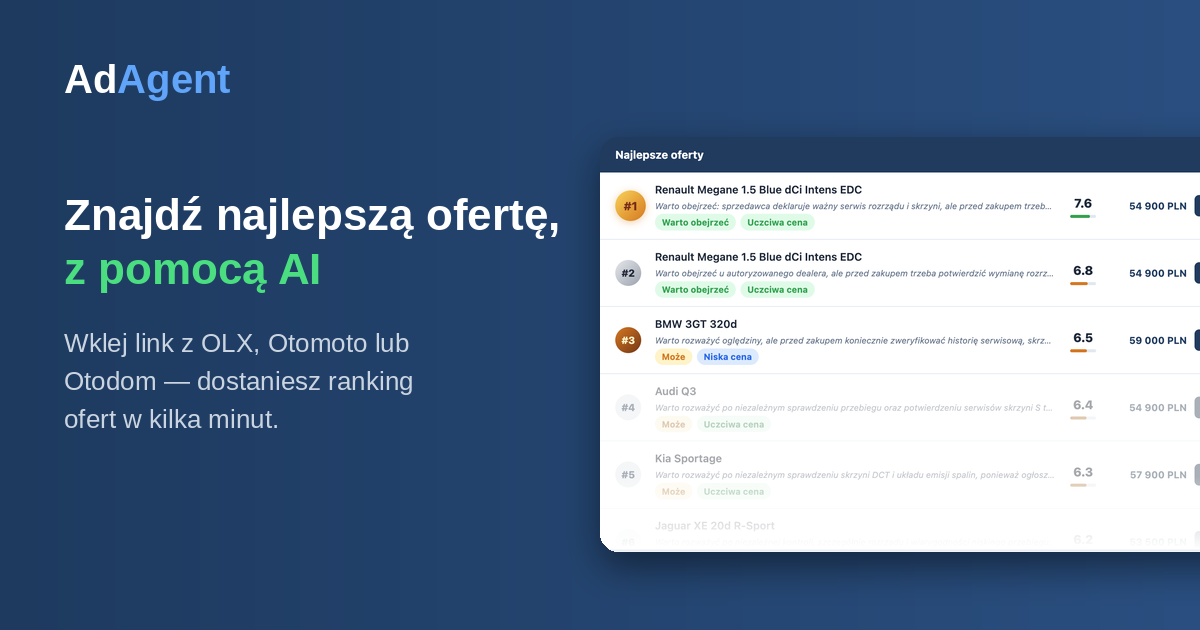
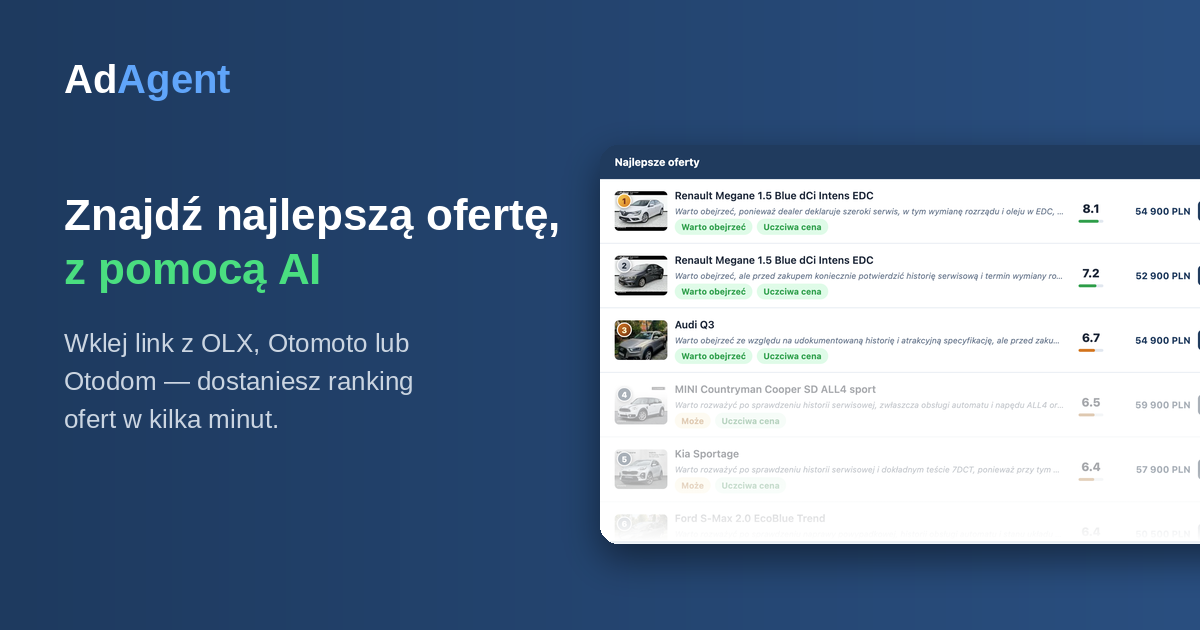
[web] Fix for report translation  - And new leaderboard screenshot examples

diff --git a/templates/index.html b/templates/index.html
@@ -158,7 +158,7 @@
           <source media="(max-width: 560px)" srcset="/static/sample-leaderboard-m.webp" type="image/webp">
           <source media="(max-width: 560px)" srcset="/static/sample-leaderboard-m.png">
           <source srcset="/static/sample-leaderboard.webp" type="image/webp">
-          <img src="/static/sample-leaderboard.png" width="1300" height="983" loading="lazy"
+          <img src="/static/sample-leaderboard.png" width="1300" height="947" loading="lazy"
                alt="{{ t('Example AdAgent report: a ranked leaderboard of car offers with scores and verdicts') }}">
         </picture>
       </div>

diff --git a/service/languages.py b/service/languages.py
@@ -3,6 +3,8 @@ Supported UI/report languages + the instruction injected into AI prompts
 to make the model answer in the user's chosen language.
 """
 
+import re
+
 # code -> (native display name, English name used inside the AI prompt)
 LANGUAGES: dict[str, tuple[str, str]] = {
     "en": ("English",      "English"),
@@ -63,16 +65,32 @@ def detect_language(accept_language_header: str | None) -> str:
     return DEFAULT_LANGUAGE
 
 
+_SAME_LANG_LINE_RE = re.compile(r"^[^\n]*same language as[^\n]*\n?", re.IGNORECASE | re.MULTILINE)
+
+
+def strip_language_conflicts(prompt: str, lang_code: str | None) -> str:
+    """
+    Remove the presets' own "Use the same language as the advertisement" lines
+    when an explicit report language is chosen. The override appended at the end
+    already says it wins, but removing the contradiction is more reliable.
+    No-op for None / unknown codes (legacy "ad's own language" behavior).
+    """
+    if not lang_code or lang_code not in LANGUAGES:
+        return prompt
+    return _SAME_LANG_LINE_RE.sub("", prompt).rstrip()
+
+
 def build_language_instruction(lang_code: str | None, structured: bool) -> str:
     """
     Appended to the end of an ad/summary prompt (preset or custom).
     Placed last on purpose — models weight the final instruction heavily,
     and this needs to override the presets' own "use the ad's language" line.
 
-    Returns "" for None / unknown / the default language (no override needed —
-    keeps the existing "same language as the ad" behavior).
+    Applies to EVERY supported language, English included: ads are mostly
+    Polish, so "no override" for English meant English reports came out Polish.
+    Returns "" only for None / unknown codes (legacy "same language as the ad").
     """
-    if not lang_code or lang_code not in LANGUAGES or lang_code == DEFAULT_LANGUAGE:
+    if not lang_code or lang_code not in LANGUAGES:
         return ""
 
     _, english_name = LANGUAGES[lang_code]
@@ -81,10 +99,16 @@ def build_language_instruction(lang_code: str | None, structured: bool) -> str:
         return (
             f"\n\n---\nIMPORTANT — response language override (this takes priority "
             f"over any earlier language instruction above):\n"
-            f"Write all free-text / prose values in {english_name}. Do NOT translate "
-            f"JSON keys. Do NOT translate any field whose allowed values are given "
-            f"above as a fixed set in quotes (e.g. \"worth_viewing\"|\"maybe\"|\"skip\", "
-            f"or \"low\"|\"fair\"|\"high\"|\"unknown\") — keep those exact English enum "
+            f"Write all free-text / prose values in {english_name}, even though the "
+            f"advertisement itself is usually in Polish. This includes items you take "
+            f"from the ad's text: translate every entry of mentioned_fixes, red_flags "
+            f"and positives, and text values such as color, heating, condition, "
+            f"district descriptions and monthly_fees wording, into {english_name}. "
+            f"Keep numbers, currency amounts, proper nouns (brand, model, street, "
+            f"city names) and URLs as they are. Do NOT translate JSON keys. Do NOT "
+            f"translate any field whose allowed values are given above as a fixed "
+            f"set in quotes (e.g. \"worth_viewing\"|\"maybe\"|\"skip\", or "
+            f"\"low\"|\"fair\"|\"high\"|\"unknown\") — keep those exact English enum "
             f"strings unchanged. Everything else (verdict_note, summary, deep_dive "
             f"text, red_flags, positives, market_summary, recommendation, "
             f"recommended_ads.label, etc.) must be written in {english_name}."
@@ -93,5 +117,26 @@ def build_language_instruction(lang_code: str | None, structured: bool) -> str:
     return (
         f"\n\n---\nIMPORTANT — response language override (this takes priority "
         f"over any earlier language instruction above): write your entire "
-        f"response in {english_name}."
+        f"response in {english_name}, even if the advertisement text is in another "
+        f"language (translate anything you quote or take from it)."
+    )
+
+
+def build_language_reminder(lang_code: str | None, structured: bool) -> str:
+    """
+    Short reminder appended to the END OF THE USER MESSAGE (after the ad text).
+    The system-prompt override alone loses to a long Polish ad body in the user
+    turn; the last thing the model reads should be the language requirement.
+    """
+    if not lang_code or lang_code not in LANGUAGES:
+        return ""
+    _, english_name = LANGUAGES[lang_code]
+    extra = (
+        " Keep JSON keys and fixed enum values unchanged; translate every other "
+        "text value, including list items copied from the ad."
+        if structured else ""
+    )
+    return (
+        f"\n\n---\nREMINDER: the text above may be in Polish. Write your entire "
+        f"answer in {english_name}.{extra}"
     )

diff --git a/service/ai_client.py b/service/ai_client.py
@@ -109,13 +109,13 @@ def _format_ad(data: dict) -> str:
     return "\n".join(lines)
 
 
-async def analyze_ad(ad_data: dict, system_prompt: str, owner_id: str) -> str:
+async def analyze_ad(ad_data: dict, system_prompt: str, owner_id: str, lang_reminder: str = "") -> str:
     """
     Run per-ad analysis. Returns raw AI response string.
     owner_id (the report id) is used to fairly share the global OpenAI
     concurrency budget across all reports currently running — see ai_gate.
     """
-    user_msg = _format_ad(ad_data)
+    user_msg = _format_ad(ad_data) + lang_reminder
     return await ai_gate.run(owner_id, lambda: _chat(
         system=system_prompt,
         user=user_msg,
@@ -124,7 +124,7 @@ async def analyze_ad(ad_data: dict, system_prompt: str, owner_id: str) -> str:
     ))
 
 
-async def analyze_summary(ad_analyses: list[dict], system_prompt: str, owner_id: str) -> str:
+async def analyze_summary(ad_analyses: list[dict], system_prompt: str, owner_id: str, lang_reminder: str = "") -> str:
     """
     Run summary analysis across all ad results.
     ad_analyses: list of {url, analysis (str)}
@@ -136,6 +136,7 @@ async def analyze_summary(ad_analyses: list[dict], system_prompt: str, owner_id:
         if not r.get("analysis", "").startswith("AI ERROR")
     ]
     combined = "\n\n".join(blocks) if blocks else "No ads were successfully analyzed."
+    combined += lang_reminder
     return await ai_gate.run(owner_id, lambda: _chat(
         system=system_prompt,
         user=combined,
@@ -144,7 +145,7 @@ async def analyze_summary(ad_analyses: list[dict], system_prompt: str, owner_id:
     ))
 
 
-async def analyze_ad_templated(ad_data: dict, prompt_template: str, owner_id: str) -> str:
+async def analyze_ad_templated(ad_data: dict, prompt_template: str, owner_id: str, lang_reminder: str = "") -> str:
     """
     Run per-ad analysis using a self-contained prompt template that embeds
     its own instructions + {{AD_URL}} / {{AD_CONTENT}} placeholders
@@ -157,7 +158,7 @@ async def analyze_ad_templated(ad_data: dict, prompt_template: str, owner_id: st
         prompt_template
         .replace("{{AD_URL}}", ad_data.get("url", ""))
         .replace("{{AD_CONTENT}}", content)
-    )
+    ) + lang_reminder
     return await ai_gate.run(owner_id, lambda: _chat(
         system="You are a meticulous data-extraction assistant. Follow the user's instructions exactly.",
         user=prompt,
@@ -166,7 +167,7 @@ async def analyze_ad_templated(ad_data: dict, prompt_template: str, owner_id: st
     ))
 
 
-async def analyze_summary_templated(ad_analyses: list[dict], prompt_template: str, owner_id: str) -> str:
+async def analyze_summary_templated(ad_analyses: list[dict], prompt_template: str, owner_id: str, lang_reminder: str = "") -> str:
     """
     Run summary analysis using a self-contained prompt template with an
     {{ADS}} placeholder for the combined per-ad analyses.
@@ -179,7 +180,7 @@ async def analyze_summary_templated(ad_analyses: list[dict], prompt_template: st
         if not r.get("analysis", "").startswith("AI ERROR")
     ]
     combined = "\n\n".join(blocks) if blocks else "No ads were successfully analyzed."
-    prompt = prompt_template.replace("{{ADS}}", combined)
+    prompt = prompt_template.replace("{{ADS}}", combined) + lang_reminder
     return await ai_gate.run(owner_id, lambda: _chat(
         system="You are a meticulous comparative analyst. Follow the user's instructions exactly.",
         user=prompt,

diff --git a/service/tasks.py b/service/tasks.py
@@ -12,7 +12,7 @@ from .config import settings
 from .db import async_session
 from . import crud, scraper, ai_client, report_builder, email_client
 from .prompts_registry import PRESETS
-from .languages import build_language_instruction
+from .languages import build_language_instruction, build_language_reminder, strip_language_conflicts
 from .logger import get_logger
 
 logger = get_logger(__name__)
@@ -134,9 +134,12 @@ async def run_analysis(report_id: str) -> None:
         is_templated  = preset_meta.get("templated", False)
 
         lang_instruction = build_language_instruction(report.report_language, is_structured)
+        lang_reminder    = build_language_reminder(report.report_language, is_structured)
         if lang_instruction:
-            ad_prompt      += lang_instruction
-            summary_prompt += lang_instruction
+            # drop the preset's own "same language as the ad" line, then append
+            # the override; the reminder also goes at the end of each user message
+            ad_prompt      = strip_language_conflicts(ad_prompt, report.report_language) + lang_instruction
+            summary_prompt = strip_language_conflicts(summary_prompt, report.report_language) + lang_instruction
 
         # ── 3+4. Extract content + AI-analyze all ads concurrently ────────────
         # Each ad is its own task: scrape (via scraper.scrape_ad, gated by the
@@ -160,9 +163,9 @@ async def run_analysis(report_id: str) -> None:
             # -- Analyze --
             try:
                 if is_templated:
-                    analysis = await ai_client.analyze_ad_templated(data, ad_prompt, report_id)
+                    analysis = await ai_client.analyze_ad_templated(data, ad_prompt, report_id, lang_reminder)
                 else:
-                    analysis = await ai_client.analyze_ad(data, ad_prompt, report_id)
+                    analysis = await ai_client.analyze_ad(data, ad_prompt, report_id, lang_reminder)
             except Exception as exc:
                 analysis = f"AI ERROR: {exc}"
                 logger.warning("[task] ad analysis failed: %s", exc)
@@ -183,9 +186,9 @@ async def run_analysis(report_id: str) -> None:
         logger.info("[task] %s generating summary", report_id)
         try:
             if is_templated:
-                summary_text = await ai_client.analyze_summary_templated(results, summary_prompt, report_id)
+                summary_text = await ai_client.analyze_summary_templated(results, summary_prompt, report_id, lang_reminder)
             else:
-                summary_text = await ai_client.analyze_summary(results, summary_prompt, report_id)
+                summary_text = await ai_client.analyze_summary(results, summary_prompt, report_id, lang_reminder)
         except Exception as exc:
             summary_text = json.dumps({"market_summary": f"Summary failed: {exc}",
                                        "price_range": "", "average_price": "", "recommendation": ""})

diff --git a/tests/test_languages.py b/tests/test_languages.py
@@ -1,0 +1,57 @@
+"""Report-language override: English must be enforced too, and the instruction
+must reach the model both in the system prompt and at the end of the user message."""
+from unittest.mock import AsyncMock, patch
+
+import pytest
+
+from service import ai_client
+from service.languages import (
+    build_language_instruction, build_language_reminder, strip_language_conflicts,
+)
+
+AD_PROMPT = "Intro.\n- Return ONLY the JSON.\n- Use the same language as the advertisement.\n"
+SUMMARY_PROMPT = "Intro.\nUse the same language as the individual analyses.\nWrite verdicts in plain words.\n"
+
+
+@pytest.mark.parametrize("structured", [True, False])
+def test_english_now_gets_override(structured):
+    assert "English" in build_language_instruction("en", structured)
+    assert "English" in build_language_reminder("en", structured)
+
+
+@pytest.mark.parametrize("code", [None, "", "xx"])
+def test_none_or_unknown_keeps_legacy_behaviour(code):
+    assert build_language_instruction(code, True) == ""
+    assert build_language_reminder(code, True) == ""
+    assert strip_language_conflicts(AD_PROMPT, code) == AD_PROMPT
+
+
+def test_structured_override_covers_copied_lists_and_keeps_enums():
+    text = build_language_instruction("de", True)
+    assert "German" in text and "mentioned_fixes" in text
+    assert "worth_viewing" in text and "Do NOT translate JSON keys" in text
+
+
+def test_strip_removes_same_language_lines_only():
+    out = strip_language_conflicts(AD_PROMPT, "en")
+    assert "same language" not in out.lower()
+    assert "Return ONLY the JSON." in out
+    out = strip_language_conflicts(SUMMARY_PROMPT, "uk")
+    assert "same language" not in out.lower()
+    assert "Write verdicts in plain words." in out
+
+
+@pytest.mark.asyncio
+async def test_reminder_is_last_thing_in_user_message():
+    reminder = build_language_reminder("en", True)
+    with patch("service.ai_client._chat", new=AsyncMock(return_value="{}")) as chat, \
+         patch("service.ai_client.ai_gate.run", new=lambda owner, fn: fn()):
+        await ai_client.analyze_ad({"url": "https://www.olx.pl/d/oferta/x", "title": "Samochód"},
+                                   "sys", "rid", reminder)
+        assert chat.call_args.kwargs["user"].endswith(reminder)
+        await ai_client.analyze_summary([{"url": "u", "analysis": "{}"}], "sys", "rid", reminder)
+        assert chat.call_args.kwargs["user"].endswith(reminder)
+        await ai_client.analyze_ad_templated({"url": "u", "title": "t"}, "{{AD_CONTENT}}", "rid", reminder)
+        assert chat.call_args.kwargs["user"].endswith(reminder)
+        await ai_client.analyze_summary_templated([{"url": "u", "analysis": "{}"}], "{{ADS}}", "rid", reminder)
+        assert chat.call_args.kwargs["user"].endswith(reminder)
